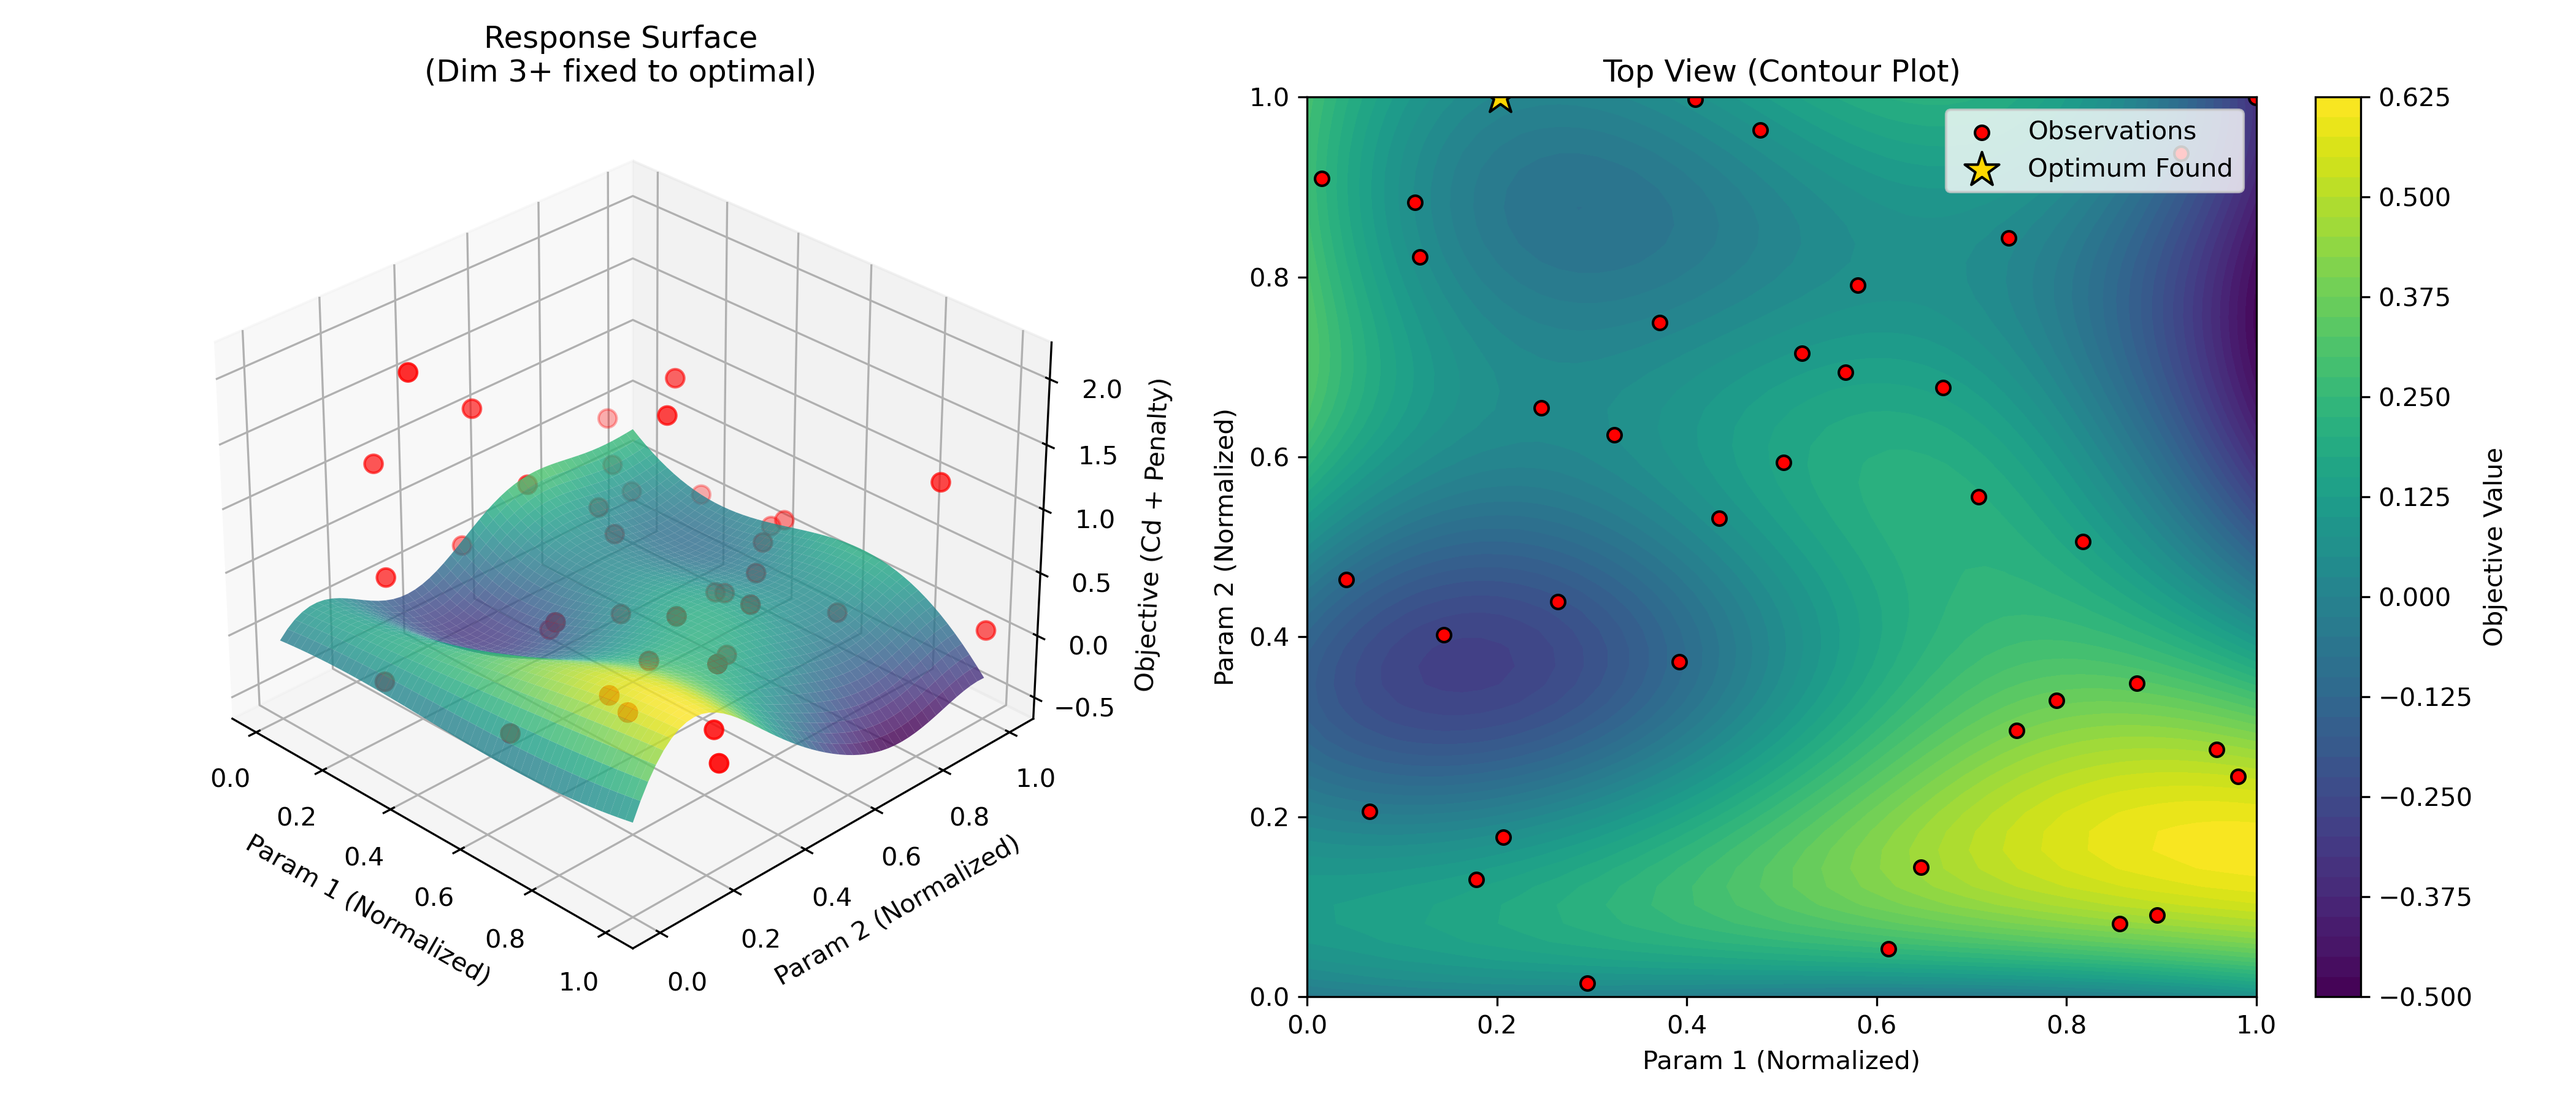
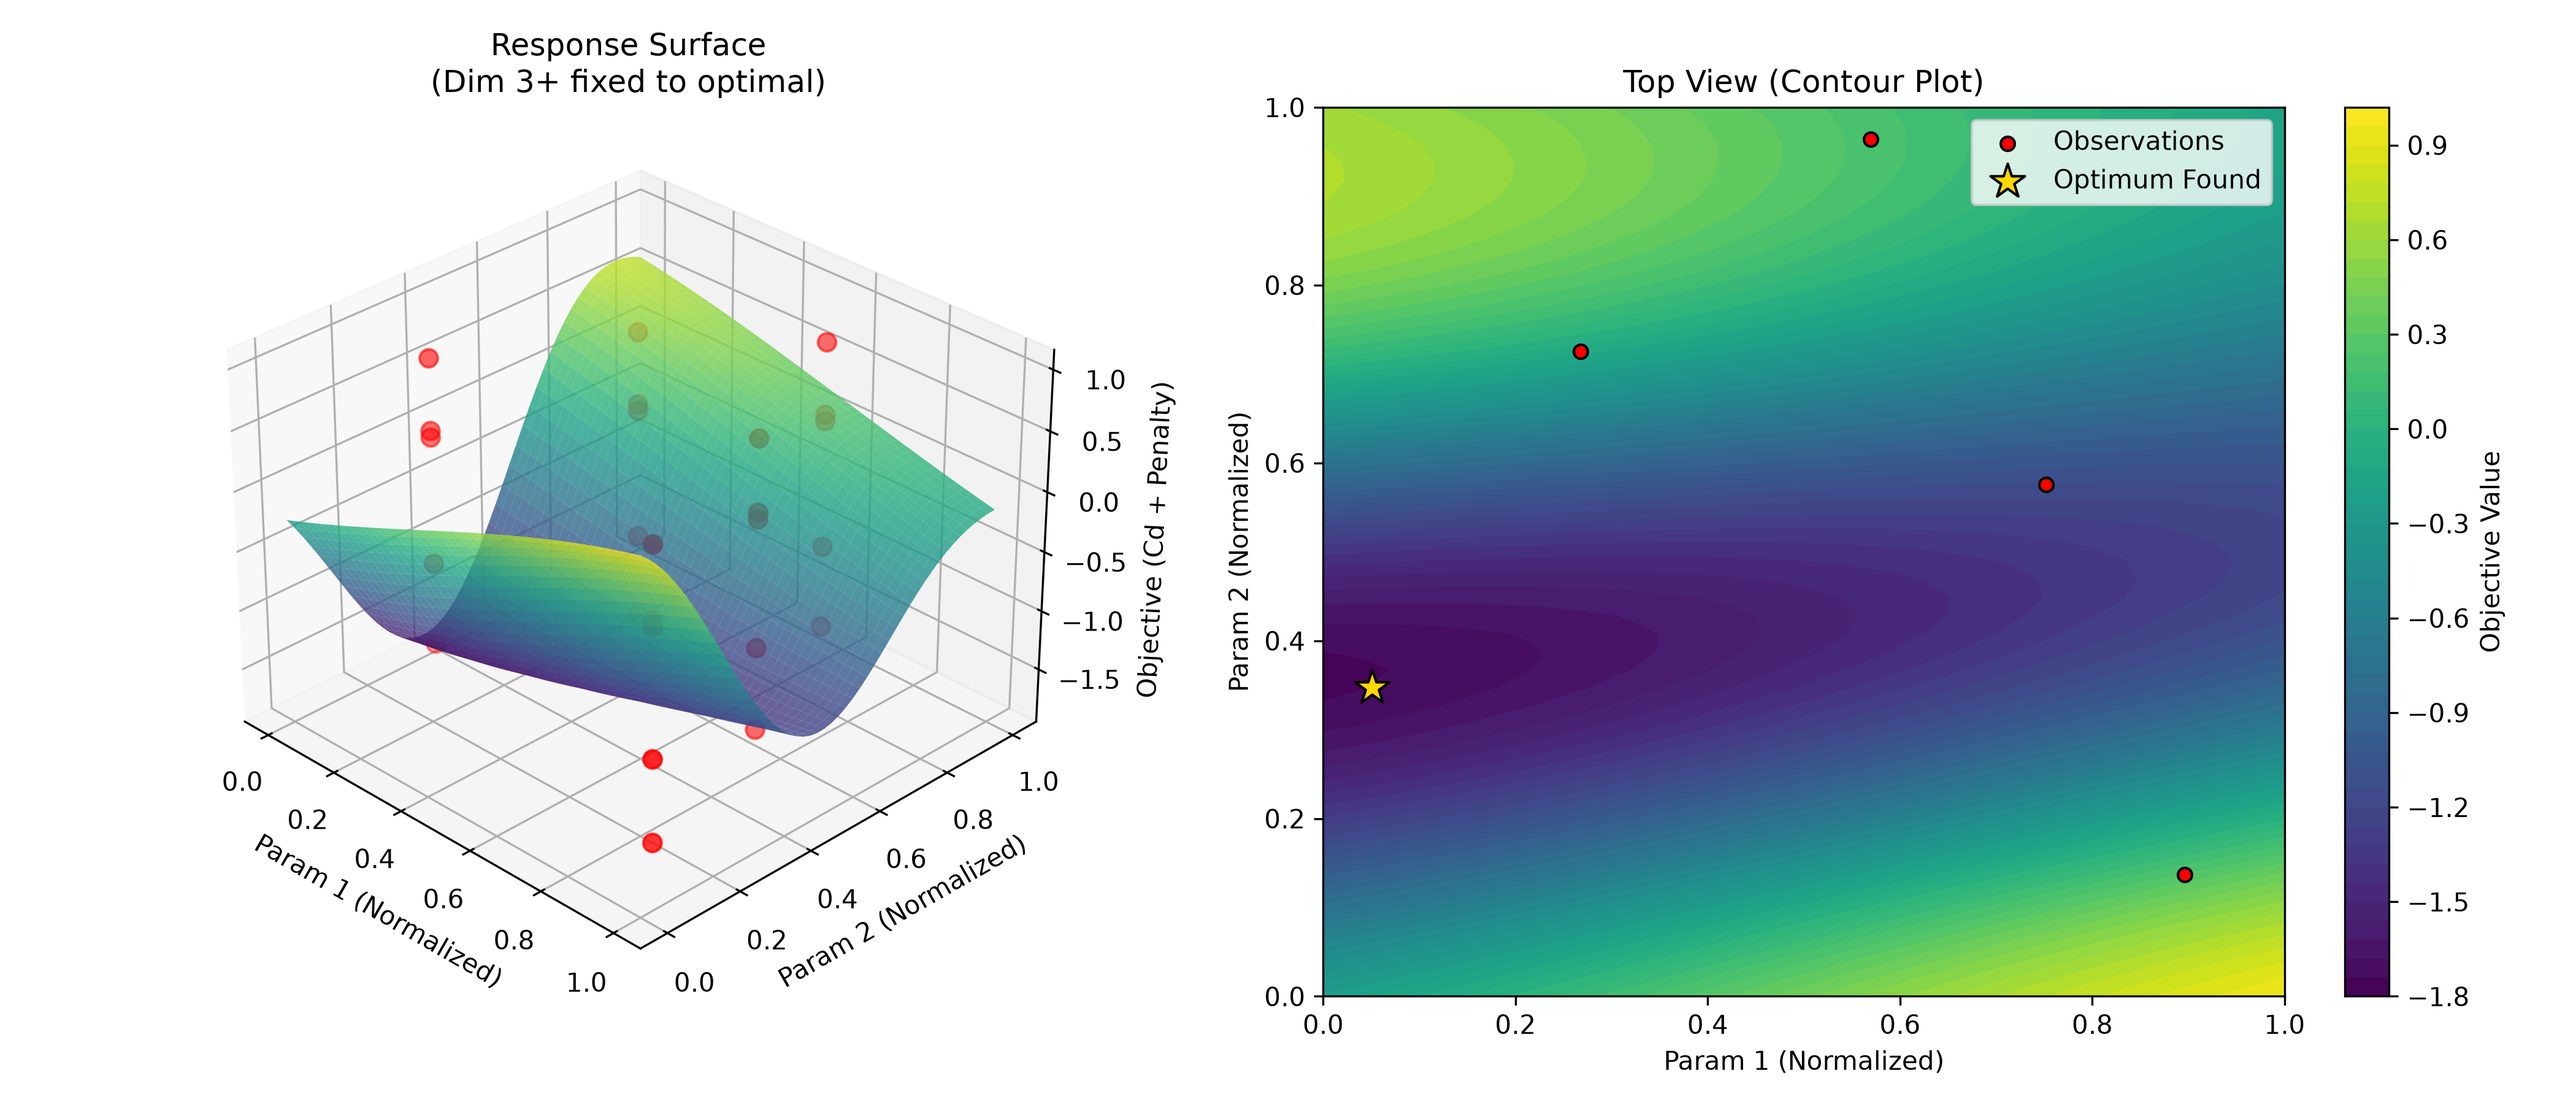
modified:   non-nested/main.py modified:   non-nested/problem_data/best_points.txt modified:   non-nested/problem_data/ego_convergence_results.png modified:   non-nested/problem_data/hyperparameters.txt modified:   non-nested/problem_data/optimization_results.json modified:   non-nested/problem_data

diff --git a/non-nested/surrogate_vizu.py b/non-nested/surrogate_vizu.py
@@ -33,12 +33,12 @@ print("Loading model data...")
 with open("problem_data/optimization_results.json", "r") as f:
     data = json.load(f)
 
-X_train = np.array(data["training_data"]["level_1"]["X_train"])
-Y_train = np.array(data["training_data"]["level_1"]["Y_train"]).reshape(-1, 1)
+X_train = np.array(data["training_data"]["level_2"]["X_train"])
+Y_train = np.array(data["training_data"]["level_2"]["Y_train"]).reshape(-1, 1)
 
 # Using the correct key based on your current JSON structure
-theta = np.array(data["hyperparameters"]["level_1"]["theta"])
-noise = data["hyperparameters"]["level_1"]["noise"]
+theta = np.array(data["hyperparameters"]["level_2"]["theta"])
+noise = data["hyperparameters"]["level_2"]["noise"]
 
 # Number of actual dimensions in the dataset (will be 3)
 d = X_train.shape[1]
@@ -76,7 +76,7 @@ Z_mesh = Z_pred.reshape(X0_mesh.shape)
 print("Generating the plot...")
 fig = plt.figure(figsize=(14, 6))
 
-# --- Plot 1: 3D Surface ---
+# Plot 1: 3D Surface ---
 ax1 = fig.add_subplot(121, projection='3d')
 surf = ax1.plot_surface(X0_mesh, X1_mesh, Z_mesh, cmap='viridis', edgecolor='none', alpha=0.8)
 
@@ -89,7 +89,7 @@ ax1.set_ylabel("Param 2 (Normalized)")
 ax1.set_zlabel("Objective (Cd + Penalty)")
 ax1.view_init(elev=30, azim=-45)
 
-# --- Plot 2: Heatmap (2D Contour) ---
+# Plot 2: Heatmap (2D Contour) ---
 ax2 = fig.add_subplot(122)
 contour = ax2.contourf(X0_mesh, X1_mesh, Z_mesh, levels=50, cmap='viridis')
 ax2.scatter(X_train[:, 0], X_train[:, 1], color='red', s=30, edgecolors='black', label='Observations')
@@ -105,4 +105,4 @@ fig.colorbar(contour, ax=ax2, label="Objective Value")
 
 plt.tight_layout()
 plt.savefig("problem_data/response_surface.png", dpi=300)
-plt.show()
+plt.close()

diff --git a/non-nested/main.py b/non-nested/main.py
@@ -138,9 +138,9 @@ def evaluate_fidelity(x_normalized, level, L, target_cl=1.0, coordinates_only=Fa
         cd, cl, _ = objective_function(airfoil_obj=custom_naca, alpha=alpha_phys, level=level, L=L)
         
         # penalty on the target Cl to guide the optimizer
-        weight = 2.0
+        weight = 10.0
         merit = cd + weight * (cl - target_cl)**2
-        return float(merit)
+        return float(np.log10(merit))
 
 # ==========================================
 # VISUALIZATION FUNCTION
